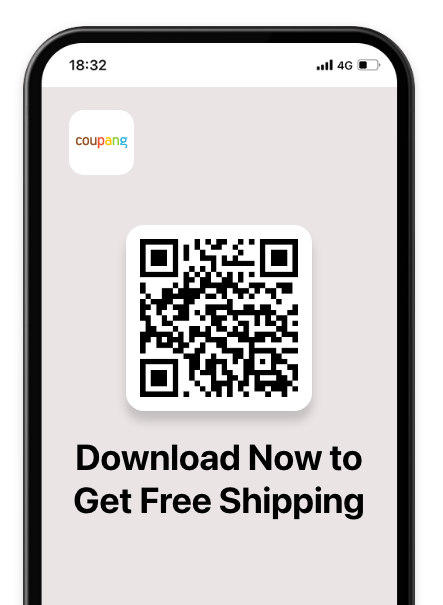
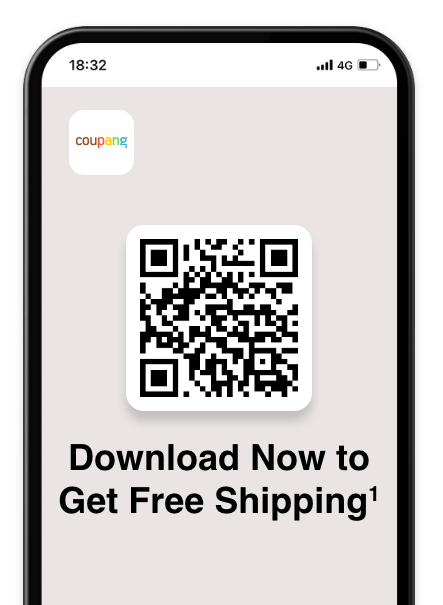
update carousel-caption H1 sup text

Changed region(s): [[0.1174, 0.714, 0.851, 0.8628]]

diff --git a/tw/index_en.html b/tw/index_en.html
@@ -165,9 +165,9 @@
 
           <div class="carousel-caption text-start">
             <img class="logo-image" src="images/RocketOverseas_white.svg" alt="Coupang Rocket Overseas">
-            <h1>Millions of overseas products delivered from South Korea and the United States in 3 days</h1>
-            <p>Free shipping: order value threshold applies</p>
-            <p>3 days: delivery time may vary depending on your shipment location</p>
+            <h1>Millions of overseas products delivered from South Korea and the United States in 3 days<sup class="sup">2</sup></h1>
+            <p>1. Order value threshold applies</p>
+            <p>2. Delivery time may vary depending on your shipment location</p>
           </div>
         </div>
       </div>

diff --git a/tw/index_tw.html b/tw/index_tw.html
@@ -147,7 +147,7 @@
             <!-- <span class="span">歡迎來到酷澎</span> -->
             <img class="logo-image" src="images/RocketOverseas_white.svg" alt="火箭跨境" title="火箭跨境">
             <h1>數百萬種韓、美跨境商品 <br> 3 天送到家</h1>
-            <p>配送時間可能因您所在地區而不同</p>
+            <p>配送時間可能因您所在地區而不同。</p>
           </div>
 
         </div>

diff --git a/tw/css/style.css b/tw/css/style.css
@@ -1600,6 +1600,10 @@ button.owl-next {
         float: none;
     }
 
+    /* .dropdown-menu{
+        background-color: ;
+    } */
+
     .carousel-caption{
         font-family: NotoSansTC-Medium;
     }

diff --git a/tw/css/style-en.css b/tw/css/style-en.css
@@ -60,6 +60,10 @@ body {
     margin-bottom: 50px;
 }
 
+.carousel-caption .sup{
+    font-size: 20px;
+}
+
 .carousel-item .container {
     display: flex !important;
     height: 100%;
